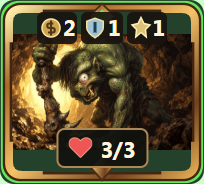
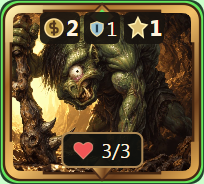
Adjust mini card cover artwork HP and centered hover hints

diff --git a/www/assets/js/battle-mini-card.js b/www/assets/js/battle-mini-card.js
@@ -5,6 +5,7 @@
 
     var tip = null, trigger = null, describedNode = null, kind = '', pinned = false;
     var hoverCard = null, zoom = null, timer = 0, hoverReady = false;
+    var nameTimer = 0, fadeTimer = 0, dismissedName = null;
     var hover = matchMedia('(hover:hover) and (pointer:fine)');
     var reduced = matchMedia('(prefers-reduced-motion:reduce)');
 
@@ -22,7 +23,7 @@
         tip.hidden = true;
         document.body.append(tip);
         tip.addEventListener('pointerleave', function (event) {
-            if (event.pointerType !== 'touch') closeHint();
+            if (event.pointerType !== 'touch' && !cardAt(event.relatedTarget)) { dismissedName = null; closeHint(); stopZoom(false); }
         });
         return tip;
     }
@@ -32,6 +33,9 @@
         describedNode = null;
     }
     function closeHint() {
+        clearTimeout(nameTimer);
+        clearTimeout(fadeTimer);
+        if (tip) tip.classList.remove('is-fading');
         clearDescription();
         trigger = null;
         kind = '';
@@ -39,19 +43,24 @@
         if (tip) tip.hidden = true;
     }
     function placeHint(node, hintKind) {
-        var r = node.getBoundingClientRect();
-        var gap = hintKind === 'name' ? 19 : 10;
-        tip.style.left = Math.max(8, Math.min(r.left, innerWidth - tip.offsetWidth - 8)) + 'px';
-        tip.style.top = (r.bottom + gap + tip.offsetHeight > innerHeight
-            ? Math.max(8, r.top - tip.offsetHeight - gap) : r.bottom + gap) + 'px';
+        var card = cardAt(node) || node;
+        var r = card.getBoundingClientRect();
+        tip.style.left = Math.max(8, Math.min(r.left + r.width / 2 - tip.offsetWidth / 2, innerWidth - tip.offsetWidth - 8)) + 'px';
+        var top = r.top + r.height / 2 - tip.offsetHeight / 2;
+        var indicators = card.querySelector('.mini-indicators');
+        if (hintKind === 'indicator' && indicators) top = Math.max(top, indicators.getBoundingClientRect().bottom + 4);
+        tip.style.top = Math.max(8, Math.min(top, innerHeight - tip.offsetHeight - 8)) + 'px';
     }
     function show(node, hintKind) {
         if (!node || !node.isConnected) return;
         var text = hintKind === 'name' ? node.dataset.miniName : node.querySelector('.mini-hint-text');
         if (!text) { closeHint(); return; }
         if (trigger === node && kind === hintKind && tip && !tip.hidden) return;
+        clearTimeout(nameTimer);
+        clearTimeout(fadeTimer);
         clearDescription();
         var t = tooltip();
+        t.classList.remove('is-fading');
         trigger = node;
         kind = hintKind;
         t.dataset.kind = hintKind;
@@ -65,6 +74,14 @@
         describedNode.setAttribute('aria-describedby', t.id);
         t.hidden = false;
         placeHint(node, hintKind);
+        if (hintKind === 'name' && !(node.closest('.card-link') || node).matches(':focus-visible')) {
+            nameTimer = setTimeout(function () {
+                if (trigger !== node || kind !== 'name') return;
+                dismissedName = node;
+                t.classList.add('is-fading');
+                fadeTimer = setTimeout(closeHint, reduced.matches ? 0 : 250);
+            }, 1500);
+        }
     }
     function contextHint(node) {
         if (pinned || !hoverReady) return;
@@ -72,7 +89,7 @@
         var indicator = node.closest ? node.closest('[data-mini-hint]') : null;
         var card = cardAt(node);
         if (indicator) show(indicator, 'indicator');
-        else if (card && !card.classList.contains('mini-hidden')) show(card, 'name');
+        else if (card && !card.classList.contains('mini-hidden')) { if (dismissedName !== card) show(card, 'name'); }
         else closeHint();
     }
     function stopZoom(immediate) {
@@ -109,9 +126,9 @@
             clone.removeAttribute('data-mini-card');
             clone.removeAttribute('data-mini-name');
             z.append(clone);
-            // The visual copy never owns hit testing. Keep its 1.20 scale inside the viewport.
-            z.style.left = Math.max(11, Math.min(r.left, innerWidth - r.width - 11)) + 'px';
-            z.style.top = Math.max(10, Math.min(r.top, innerHeight - r.height - 10)) + 'px';
+            // The visual copy never owns hit testing. Keep its 1.25 scale inside the viewport.
+            z.style.left = Math.max(13, Math.min(r.left, innerWidth - r.width - 13)) + 'px';
+            z.style.top = Math.max(12, Math.min(r.top, innerHeight - r.height - 12)) + 'px';
             z.style.width = r.width + 'px';
             z.style.height = r.height + 'px';
             z.style.opacity = appearance.opacity;
@@ -162,6 +179,8 @@
         if (e.pointerType === 'touch' || !hover.matches) return;
         var card = cardAt(e.target);
         if (card && !card.contains(e.relatedTarget)) {
+            if (tip && tip.contains(e.relatedTarget)) return;
+            dismissedName = null;
             stopZoom(false);
             if (!(tip && tip.contains(e.relatedTarget))) closeHint();
         } else if (card && e.relatedTarget && !pinned) contextHint(e.relatedTarget);
@@ -176,6 +195,7 @@
         if (cardAt(e.target) && !cardAt(e.relatedTarget)) closeHint();
     });
     function refresh() {
+        dismissedName = null;
         hoverReady = false;
         closeHint();
         stopZoom(true);

diff --git a/www/assets/css/battle-mini-card.css b/www/assets/css/battle-mini-card.css
@@ -7,22 +7,22 @@
 .battle-page [data-mini-card-design="v2"] :is(.card-link,.fly-card,.fly-page-card){display:flex;align-items:center;justify-content:center}
 .battle-page .battle-card.battle-mini-card{position:relative;isolation:isolate;display:block;flex:0 0 auto;box-sizing:border-box;width:102px;height:92px;padding:0;border:0;border-radius:7px;overflow:hidden;background:#24412c;color:#fff4df;font:10px/1.1 system-ui,sans-serif;text-align:left;cursor:inherit}
 .battle-page .battle-card.battle-mini-card.mini-enemy{background:#4c2424}
-.battle-page .battle-mini-card .mini-art{position:absolute;left:5px;top:5px;width:92px;height:82px;object-fit:contain;pointer-events:none}
+.battle-page .battle-mini-card .mini-art{position:absolute;left:5px;top:5px;width:92px;height:82px;object-fit:cover;pointer-events:none}
 .battle-page .battle-mini-card .mini-frame{position:absolute;inset:0;width:102px;height:92px;object-fit:contain;z-index:4;pointer-events:none}
 .battle-page .mini-indicators{position:absolute;top:6px;left:50%;transform:translateX(-50%);width:max-content;max-width:88px;display:flex;flex-wrap:wrap;align-items:center;justify-content:center;gap:2px;z-index:6}
 .battle-page .mini-indicator{display:inline-flex;align-items:center;gap:0;min-height:16px;padding:0 1px;border-radius:3px;background:rgba(24,20,15,.92);font-size:11px;font-weight:700;white-space:nowrap;cursor:pointer;color:#fff4df;font-variant-numeric:tabular-nums}
 .battle-page .mini-indicator img{width:12px;height:12px;object-fit:contain;pointer-events:none}
 .battle-page .mini-hint-text[hidden]{display:none!important}
 .battle-page .mini-indicator:focus-visible{outline:1px solid white;outline-offset:1px}
-.battle-page .battle-mini-card .mini-hp{position:absolute;left:50%;bottom:8px;transform:translateX(-50%);width:max-content;display:inline-flex;align-items:center;justify-content:center;gap:4px;padding:3px 5px;border:1px solid #ad8854;border-radius:4px;background:rgba(16,17,14,.92);font-size:11px;line-height:1;font-weight:750;color:#fff4df;z-index:5;white-space:nowrap;font-variant-numeric:tabular-nums}
-.battle-page .mini-heart{display:block;width:12px;height:12px;fill:#ef5555;stroke:#ffc19a;stroke-width:.6;flex:0 0 auto}
+.battle-page .battle-mini-card .mini-hp{position:absolute;left:50%;bottom:8px;transform:translateX(-50%);width:max-content;display:inline-flex;align-items:center;justify-content:center;gap:4px;padding:3px 5px;border:1px solid #ad8854;border-radius:4px;background:rgba(16,17,14,.92);font-size:10px;line-height:1;font-weight:400;color:#fff4df;z-index:5;white-space:nowrap;font-variant-numeric:tabular-nums}
+.battle-page .mini-heart{display:block;width:10px;height:9px;fill:#ef5555;stroke:#ffc19a;stroke-width:.6;flex:0 0 auto}
 .battle-page .mini-question{position:absolute;inset:0;display:flex;align-items:center;justify-content:center;color:#ecd3a0;font:700 56px/1 Georgia,serif;text-shadow:0 2px 0 #57351d,0 0 8px #140f0b;pointer-events:none}
 
 .battle-page .battle-mini-card.mini-hidden{background:#56504a!important;color:#eee}
 .battle-page .battle-mini-card.mini-closed{opacity:.35}
 .battle-page .battle-mini-card.mini-dying{outline:2px dashed #c22;outline-offset:-3px}
 .battle-mini-zoom{position:fixed;z-index:200;pointer-events:none;transform:scale(1);transform-origin:center;transition:transform 250ms ease-out,opacity 250ms ease-out}
-.battle-mini-zoom.is-open{transform:scale(1.20)}
+.battle-mini-zoom.is-open{transform:scale(1.25)}
 .battle-page .battle-mini-zoom .battle-mini-card{cursor:default;opacity:1!important}
 .battle-mini-tooltip{position:fixed;z-index:1000;max-width:min(360px,calc(100vw - 16px));max-height:calc(100dvh - 16px);overflow:auto;box-sizing:border-box;padding:12px 15px;border:1px solid #9d8054;background:#242724;color:#f3ecdc;font:13px/1.4 system-ui,sans-serif;overflow-wrap:anywhere;box-shadow:0 6px 20px #0005}
 .battle-mini-tooltip[hidden]{display:none!important}.battle-mini-tooltip ul{padding-left:18px;margin:0}.battle-mini-tooltip li+li{margin-top:4px}
@@ -31,3 +31,11 @@
 .battle-page [data-mini-card-design="v2"] .field-cell.attack-target .battle-mini-card{outline:2px solid #c33;outline-offset:0}
 .battle-page [data-mini-card-design="v2"] :is(.field-cell,.fly-slot).friendly-attack-target .battle-mini-card{outline:2px solid #d9a21b;outline-offset:0}
 .battle-mini-tooltip[data-kind="name"]{padding:8px 10px;font-size:12px;font-weight:600;border-radius:4px}
+
+.battle-page .mini-indicator:has(img[src$="armor_compact.svg"]){font-size:10px;font-weight:400}
+.battle-page .mini-indicator img[src$="armor_compact.svg"]{width:10px;height:9px}
+.battle-mini-tooltip{opacity:1;transition:opacity 250ms ease-out}
+.battle-mini-tooltip.is-fading{opacity:0;pointer-events:none}
+@media(prefers-reduced-motion:reduce){.battle-mini-tooltip{transition:none}}
+
+.battle-mini-tooltip[data-kind="name"]{pointer-events:none}

diff --git a/docs/minicard-stage41.md b/docs/minicard-stage41.md
@@ -9,10 +9,10 @@
 - HP: отдельное SVG-сердце inline и текст на контрастной CSS-подложке, width:max-content. Проверены 7/7,13/13,100/100: ширина растёт с текстом, показатели не обрезаются и не выходят за карту. Под HP нет отдельной строки.
 - Верхняя группа центрирована. У каждого индикатора собственная компактная подложка; иконки12px, числа11px. Отсутствующие индикаторы не занимают места. Крупные значения переносятся, не закрывая HP.
 - Скрытый противнику экземпляр: отдельный центральный знак вопроса с бронзовым оформлением. Его название, иллюстрация и эффекты не попадают ни в текст, ни в атрибуты, ни в скрытые DOM-фрагменты. Если вызывающий боевой рендер передал HP '?/?', HP не рисуется; если передано разрешённое публичное значение, оно сохраняется. Сам класс не читает private HP вместо маски. Текущие правила BattleScreen не изменены.
-- Zoom:200ms,1.20,250ms ease-out. Копия в body не участвует в hit testing и не меняет геометрию; возврат без задержки. Скрытые карты, touch и reduced motion сохраняют прежнюю политику без увеличения. Подсказка имени/эффектов выше zoom. Перемещение внутри карты не перезапускает zoom.
+- Zoom:200ms,1.25,250ms ease-out. Копия в body не участвует в hit testing и не меняет геометрию; возврат без задержки. Скрытые карты, touch и reduced motion сохраняют прежнюю политику без увеличения. Подсказка имени/эффектов выше zoom. Перемещение внутри карты не перезапускает zoom.
 - Уход курсора с карты на поле закрывает подсказку, включая открытую кликом, и запускает уменьшение. На touch подсказка переключается повторным тапом/кликом вне; клавиатура Enter/Space/Escape поддерживается. Переход в саму подсказку позволяет прочитать/прокрутить длинный список.
 - AJAX удаляет старые подсказки, увеличенные копии и таймеры. Под неподвижным курсором старое имя не открывается повторно до движения. Повторное подключение скрипта защищено флагом.
-- Версии отдельного CSS/JS в battle.tpl повышены до v2.
+- Версии отдельного CSS/JS в battle.tpl повышены до v3.
 
 ## Что не менялось
 
@@ -21,7 +21,7 @@ ActiveCardEffects.php, BattleScreen.php, BattleCardMarkup.php, global.css, InfoP
 ## Проверки
 
 - PHP tools/test_mini_card_stage4.php: активные/базовые эффекты, реальный MovementResolver с ОВА/ОВЗ, яд, оглушение, скрытые данные, экранирование, отсутствие плашек, сохранение публичного HP, replay и rollback.
-- Browser tools/test_mini_card_stage4_browser.cjs:1600×900,DPR1,100%; геометрия926×732 и440px панель; четыре индикатора, центрирование, крупные значения; HP7/13/100 с фактическим ростом ширины; полное длинное имя; замена имени на эффекты в одном tooltip; клавиатура; mouseleave, повторный/внешний клик, Escape; карта без иллюстрации; скрытая/закрытая/умирающая карта; zoom200ms/1.20/250ms, края/летающие, отсутствие перехвата соседних кликов; reduced motion/touch; выбор карты/атаки/хода/прыжка по настоящим ссылкам; изменение ОВА и многократный AJAX applySnapshot, отсутствие старых подсказок/обработчиков; legacy replay; выбор по touch и имя в InfoPanel.
+- Browser tools/test_mini_card_stage4_browser.cjs:1600×900,DPR1,100%; геометрия926×732 и440px панель; четыре индикатора, центрирование, крупные значения; HP7/13/100 с фактическим ростом ширины; полное длинное имя; замена имени на эффекты в одном tooltip; клавиатура; mouseleave, повторный/внешний клик, Escape; карта без иллюстрации; скрытая/закрытая/умирающая карта; zoom200ms/1.25/250ms, края/летающие, отсутствие перехвата соседних кликов; reduced motion/touch; выбор карты/атаки/хода/прыжка по настоящим ссылкам; изменение ОВА и многократный AJAX applySnapshot, отсутствие старых подсказок/обработчиков; legacy replay; выбор по touch и имя в InfoPanel.
 - Дополнительно пройдены test_battle_snapshot_renderer.php, test_battle_card_visual_ui.php (legacy), test_card_panel_metadata.php, test_fly_pagination.php, test_battle_auto_target_ui.php, test_forced_strike_targets.php, test_friendly_fire.php.
 - JS syntax и git diff --check пройдены.
 
@@ -57,3 +57,11 @@ ActiveCardEffects.php, BattleScreen.php, BattleCardMarkup.php, global.css, InfoP
 Добавлены: docs/minicard-stage41.md и шесть PNG в docs/evidence/minicard-stage41/.
 
 Rollback прежней карточки: BERSERK_LEGACY_MINICARDS=1 для всех PHP-воркеров и полное обновление страницы. Возврат только к Stage4 — revert отдельного коммита4.1.
+
+## Последние корректировки
+
+- Иллюстрации используют cover с обрезкой.
+- Сердце и иконка брони10×9; HP и число брони10px, font-weight400.
+- Имя появляется в центре карты, через1500ms плавно исчезает за250ms. Увеличение сохраняется, пока курсор на карте; уход курсора по-прежнему возвращает исходный размер. При клавиатурном фокусе имя не исчезает по таймеру.
+- Подсказки центрированы по горизонтали. Список эффектов смещается ниже верхних показателей, чтобы не перекрывать иконку повторного клика. Название не участвует в hit testing.
+- Проверены сохранение zoom после исчезновения имени и отсутствие перехвата кликов.
